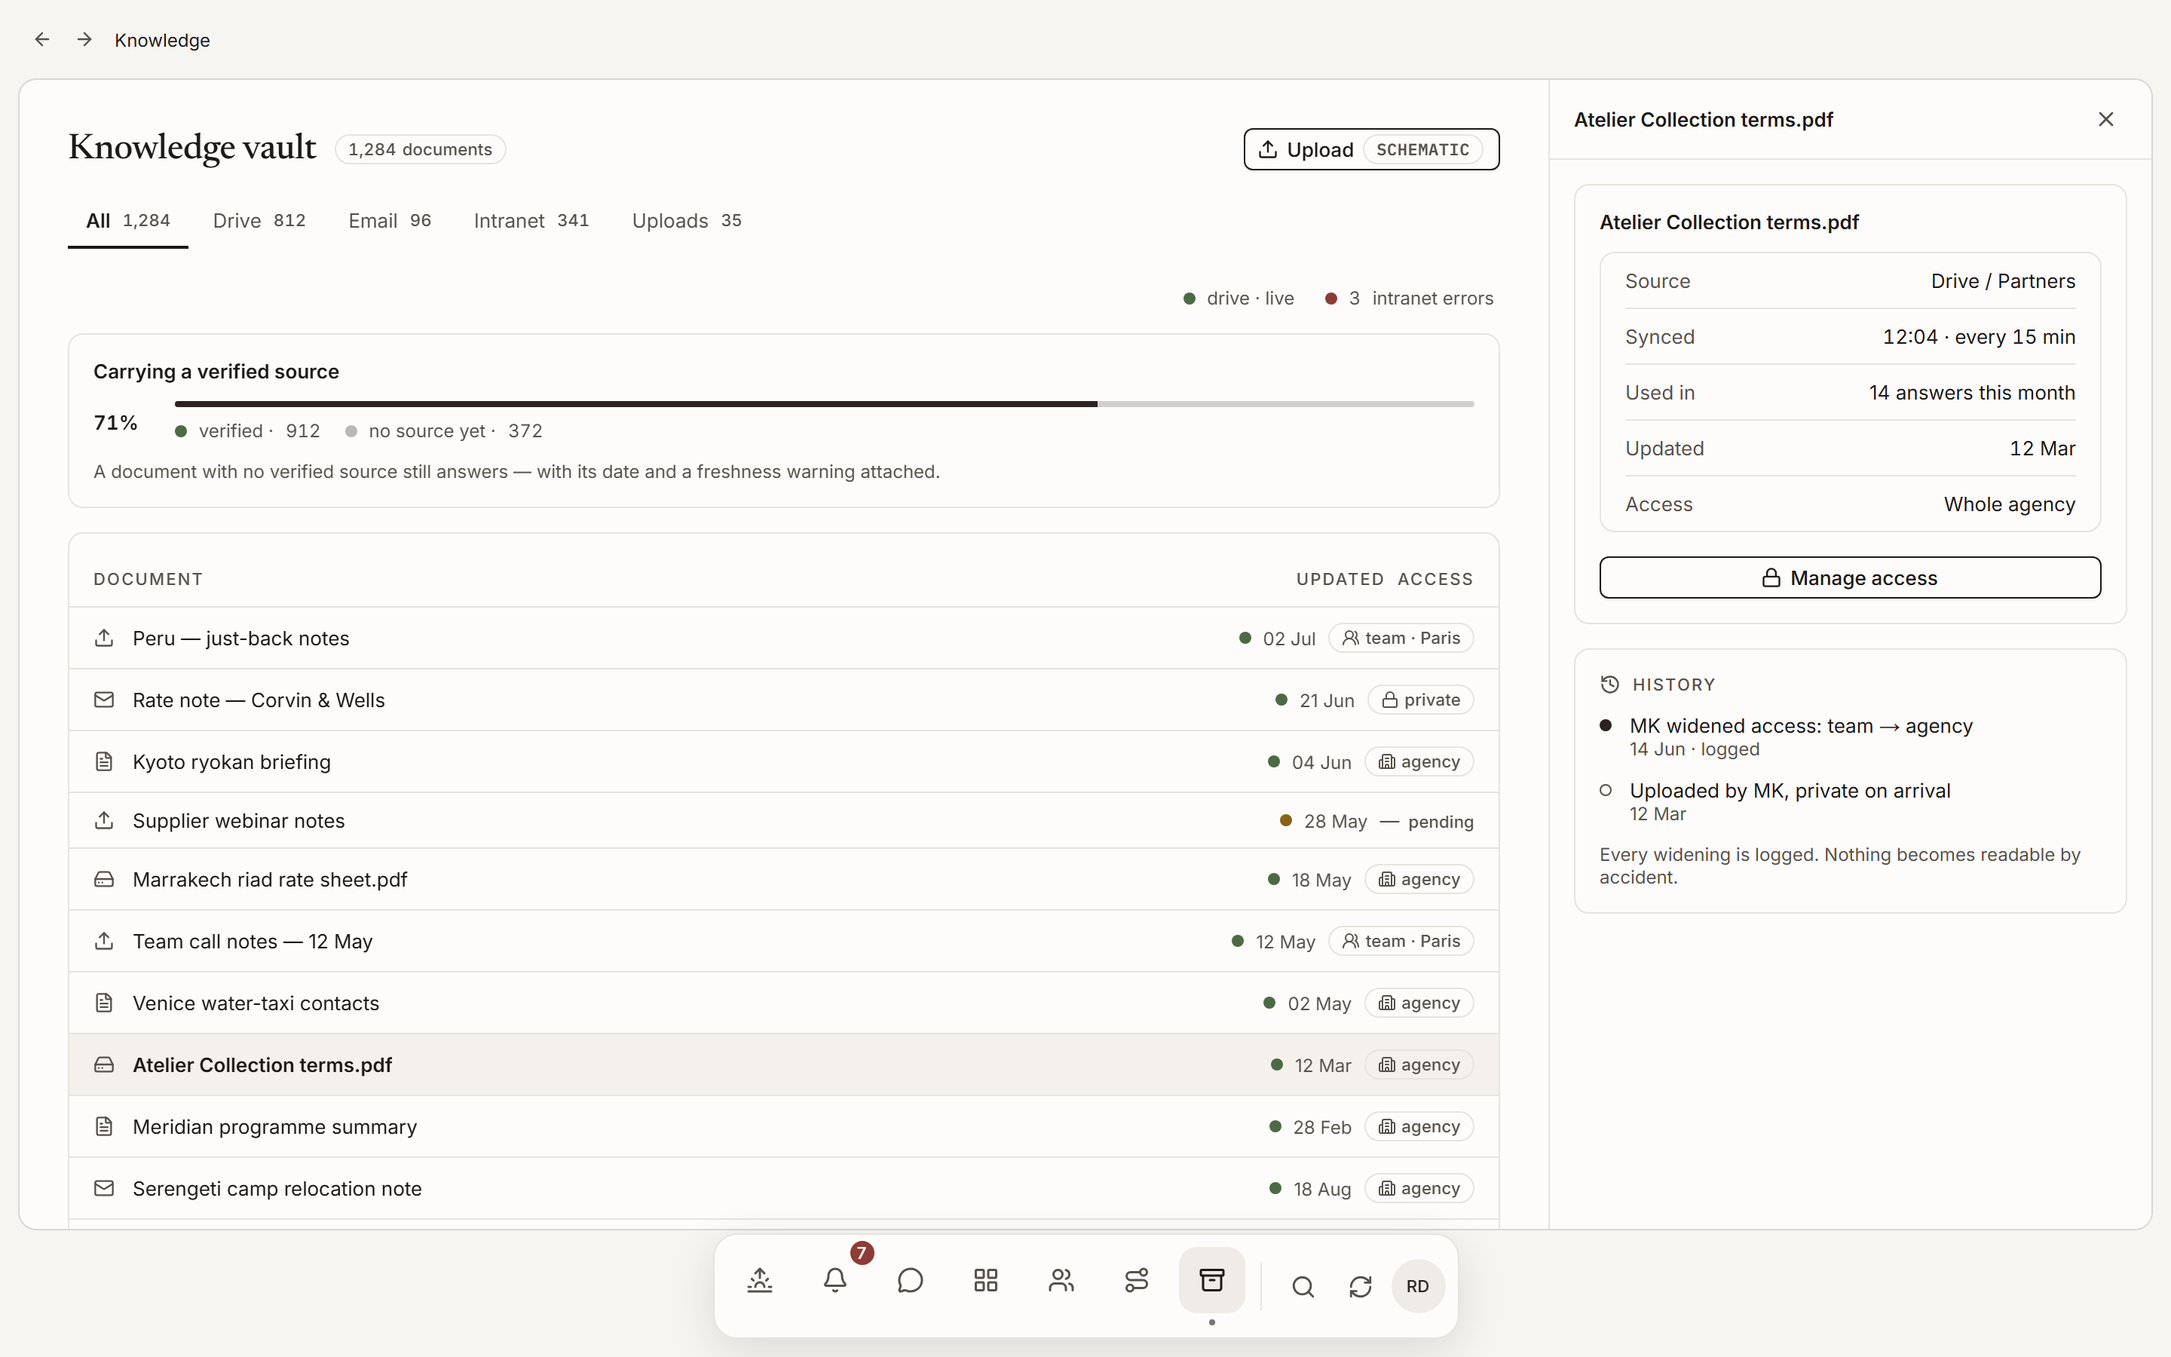
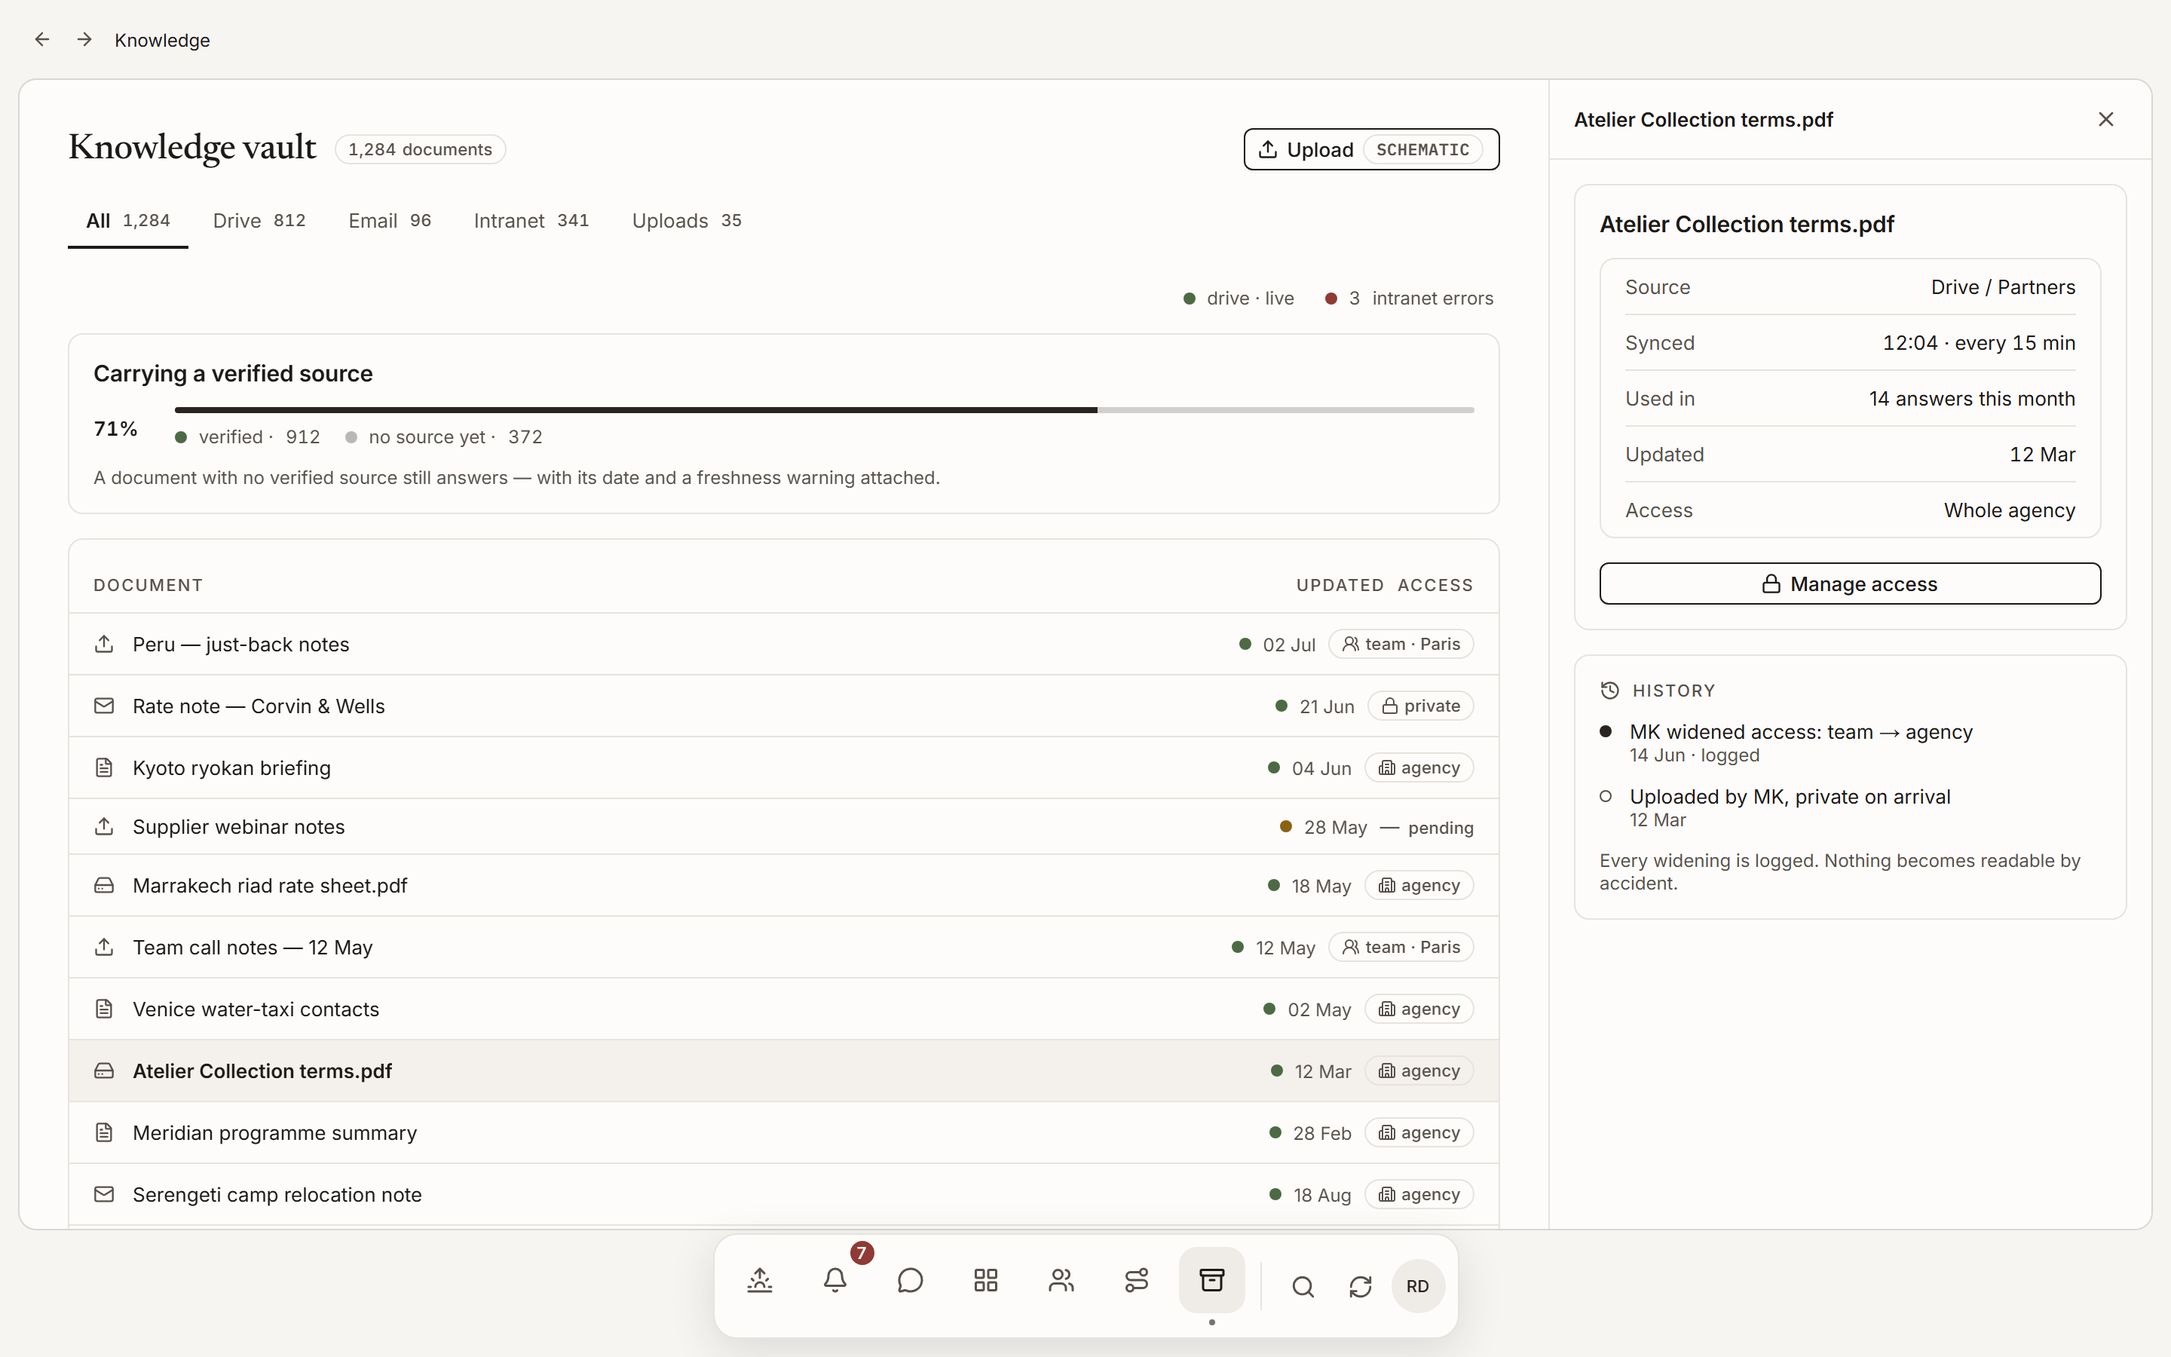
Make the first half argue for retrieval, so the pivot can refuse it
The calls slide was quoting the wrong four things. It led with email notices,
source conflict, expiring commissions and sharing — all real, all downstream of
a problem the room has not been told about yet. It now quotes four advisors who
cannot find what they already know, ending on the agency lead describing the
product back to us: better than AI because it is our own vetted data. That is
the brief we were given, and the next three slides are us building exactly it.

"Retrieval was never the problem" now carries the evidence for why, beside the
claim rather than under it: the amenities text was boilerplate across 3,280
properties, commission was arriving under traveller names against properties
that resolved to nothing, and none of it could be switched on until the agency
knew who would see what. That third one hands straight to the next slide.

The permissioning slide is rebuilt around the engineering argument instead of
the taxonomy change. Pointing a model at the files gave confident wrong answers,
and occasionally correct ones about commissions the reader could not see. So
permission became a property of the record rather than a filter on the output,
measured by a target written so it could fail — sources, freshness, a confidence
label or "I don't know", zero permission leakage. The sharing tiers are that
model surfacing, which keeps the March-to-April iteration as evidence.

Challenge 1 no longer opens on the review form with no explanation of how anyone
[…]

diff --git a/index.html b/index.html
@@ -185,31 +185,32 @@
 </section>
 
 <!-- 7b — what came out of the calls -->
-<section class="slide is-mid" data-note="Do not read all four. Read the email one and the room-name one aloud, point at the other two, then say: every one of these is dated and attributed, and the last one is the one I want to follow all the way through.">
+<section class="slide is-mid" data-note="Read the first two aloud. Point at the third. Then read the agency lead&rsquo;s line slowly, because it is the brief we were given and it is the one we followed. Every quote here is about not being able to find something. That is the whole set-up for the next three slides.">
   <span class="eyebrow">What the calls produced</span>
-  <h2 style="margin-top:20px;max-width:34ch">Four things advisors told us, and what we built because of them.</h2>
+  <h2 style="margin-top:20px;max-width:36ch">Four things advisors told us, all pointing the same way.</h2>
   <div class="said-grid">
     <div>
-      <q>Sometimes we read our email, sometimes we don&rsquo;t. And it&rsquo;s always the one time we might not.</q>
+      <q>Do we have a place on the Internet where all these meet-and-greet services are listed?</q>
+      <div class="when">Advisor &middot; 21 May &middot; the answer was no</div>
+      <div class="then">There was nowhere to look. Every question like this one ended at somebody&rsquo;s memory.</div>
+    </div>
+    <div>
+      <q>I had a Hawaii list that I took off the Internet&hellip; found out that this was pre-Covid. So a lot of those restaurants were closed already.</q>
       <div class="when">Advisor &middot; 30 April</div>
-      <div class="then">So we stopped sending notices to the inbox and put them on the record itself, where the work already happens.</div>
+      <div class="then">When there was somewhere to look, it was the open web, and it answered confidently with things that had closed years ago.</div>
     </div>
     <div>
-      <q>Literally every single time I do a booking I am looking at the website at the same time&hellip; sometimes I even look at the square footage.</q>
-      <div class="when">Advisor &middot; 21 May</div>
-      <div class="then">So the record shows every source it has and refuses to pick between them. A person chooses, and their reason is kept.</div>
-    </div>
-    <div>
-      <q>Twenty per cent commission until June&hellip; I&rsquo;ve never seen them do that before&hellip; obsolete come July 1st.</q>
-      <div class="when">Advisor &middot; 23 April</div>
-      <div class="then">So a commission carries the day it stops being true, and the product says so before the day arrives rather than after.</div>
+      <q>I don&rsquo;t want to rely on information it gives me because it&rsquo;s just information from the Internet.</q>
+      <div class="when">Advisor &middot; 16 April</div>
+      <div class="then">So a general assistant was never going to be used here, however good the writing was.</div>
     </div>
     <div class="is-lead">
-      <q>We want sharing appropriate data, but we want to make sure we&rsquo;re not sharing sensitive data&hellip; as far as client data.</q>
-      <div class="when">The agency lead &middot; 30 April</div>
-      <div class="then"><b>This one contradicted a decision we had already made and shipped, so it gets the slide after next.</b></div>
+      <q>It&rsquo;s better than AI because it&rsquo;s all of our proprietary data that&rsquo;s been vetted.</q>
+      <div class="when">The agency lead &middot; 23 April</div>
+      <div class="then"><b>The agency describing the product back to us. Search our own material instead of the web, and the trust problem goes away.</b></div>
     </div>
   </div>
+  <div class="cap calls-foot">Four complaints, one obvious conclusion: <b>they could not find what they already knew.</b> So we built them somewhere to look.</div>
 </section>
 
 <!-- ─── the first build, before the challenges ─── -->
@@ -230,35 +231,42 @@
 </section>
 
 <!-- 13 -->
-<section class="slide is-statement" data-note="The intellectual move of the whole project. Say it slowly.">
-  <span class="eyebrow">What we changed</span>
-  <p class="said">Retrieval was never the problem.</p>
-  <p class="after">The knowledge already existed and was already accurate — it was sitting unread in
-  inboxes and portals. What was missing was structure, a source on every fact, and a permission
-  attached to it. So the data model came before any screen, and chat became one door among several
-  rather than the product.</p>
+<section class="slide is-statement has-ev" data-note="The intellectual move of the whole project. Say the headline slowly, then stop. The three on the right are why: the text was boilerplate, the money did not resolve to anything, and none of it could be switched on until the agency knew who could see what. That third one is the next slide.">
+  <div class="col-a">
+    <span class="eyebrow">What we changed</span>
+    <p class="said">Retrieval was never the problem.</p>
+    <p class="after">The agency&rsquo;s own material was not a trustworthy thing to search either. Once we looked at what was in it, the work stopped being retrieval and started being structure, attribution and permission.</p>
+    <p class="after"><strong>So the data model came before any screen, and chat became one door among several rather than the product.</strong></p>
+  </div>
+  <div class="col-b">
+    <ul class="ev">
+      <li><b>93% of the amenities text</b> across 3,280 properties was template boilerplate &mdash; <em>&ldquo;View Hotel &mdash; experience refined luxury&hellip;&rdquo;</em> &mdash; not editorial anyone had written. <span>Database review &middot; March 2026</span></li>
+      <li><b>Commission was arriving under a traveller&rsquo;s name</b> instead of the agency&rsquo;s, against properties that did not resolve to anything: &ldquo;Currency Cloud&rdquo;, &ldquo;Pipery Hotel&rdquo;. <span>Advisor &middot; 23 April</span></li>
+      <li><b>And none of it could be switched on</b> until the agency knew who would see what: &ldquo;we want to make sure we&rsquo;re not sharing sensitive data&hellip; as far as client data.&rdquo; <span>The agency lead &middot; 30 April</span></li>
+    </ul>
+  </div>
 </section>
 
 
 <!-- 7c — one signal traced from call to decision to feature -->
-<section class="slide is-split is-wide" data-note="This is the answer to how a call becomes a feature. The point is not that we changed our mind — it is that we had written down, a month earlier, what would make us change it. Land on that. Then point at the sheet: three tiers, and money gated separately from all three.">
+<section class="slide is-split is-wide" data-note="This is the engineering argument, and it is the one that separates this from a RAG demo. Lead with the failure: documents in, answers out, wrong too often to be used. Then the move — permission is a property of the record, so an answer cannot leak what the model will not join. Then the metric we wrote so it could fail. Only then the sharing tiers, as that model showing up on a screen.">
   <div class="art shot"><img src="assets/screens/21-sharing-sheet.png" alt="The sharing panel: private to you, Collaborator Full, Collaborator Basic, with spend held behind the commission entitlement at every tier."></div>
   <div class="words">
-    <span class="eyebrow">One of them, followed all the way through</span>
-    <h3>We wrote the sharing rule in March, along with the thing that would make us tear it up. A month later that thing happened.</h3>
+    <span class="eyebrow">Why the data model came before the screens</span>
+    <h3>Permission had to live in the data model. A filter on the answer was never going to hold.</h3>
     <ul class="chain">
-      <li><em>31 March &middot; decided</em>
-        <b>Sharing a traveller is all or nothing.</b>
-        <span>An advisor hands over the whole profile or none of it. We wrote the revisit condition into the decision itself: reopen this if advisors refuse to share because of sensitive notes.</span></li>
-      <li><em>30 April &middot; heard</em>
-        <b>The agency lead argued both sides in one call.</b>
-        <span>He wanted notes shared &mdash; &ldquo;you don&rsquo;t necessarily have to be on this call to retrieve that information&rdquo; &mdash; and in the same conversation drew the line at client data. He also kept the finance dashboard out of it entirely.</span></li>
-      <li><em>The same week &middot; reopened</em>
-        <b>That was our condition, met almost word for word.</b>
-        <span>Nobody had to argue for reopening it. We had already agreed in March what would earn a second look, so the only question left was what replaced it.</span></li>
-      <li><em>Shipped &middot; and still standing</em>
-        <b>Three tiers, and money is not one of them.</b>
-        <span>Full lets a colleague edit and run Acuity but never re-share. Basic is a name and a contact, for an introduction. Spend sits behind a separate permission at every tier, because who you trust with a client is a different question from who you trust with the numbers.</span></li>
+      <li><em>The failure</em>
+        <b>Documents in, answers out, wrong too often to use.</b>
+        <span>Pointing a model at the agency&rsquo;s files gave confident answers that were wrong often enough that an advisor would stop trusting the whole product inside a week. And when one was right, it was sometimes right about a commission the reader was not entitled to see.</span></li>
+      <li><em>The move</em>
+        <b>We made permission a property of the record, not a filter on the output.</b>
+        <span>Everything lands private by default. Every reverse lookup is gated by the record&rsquo;s own sharing rules, and commission sits behind its own entitlement on top of that. An answer cannot leak what the model will not join in the first place.</span></li>
+      <li><em>The measure</em>
+        <b>We wrote the target so it could fail.</b>
+        <span>Time to Trusted Answer: an answer only counted if it arrived with its sources, its freshness, a confidence label or a plain &ldquo;I don&rsquo;t know&rdquo; &mdash; and zero permission leakage. Any override is auditable.</span></li>
+      <li><em>On the left</em>
+        <b>The sharing tiers are that model showing up on a screen.</b>
+        <span>In March we made sharing all or nothing, and wrote down what would reopen it. In April the agency lead met that condition almost word for word, so it became Full and Basic. Money stayed behind its own permission at every tier.</span></li>
     </ul>
   </div>
 </section>
@@ -345,9 +353,27 @@
 </section>
 
 <!-- ─── loop 2 ─── -->
+<!-- where the review work comes from, before the review screen itself -->
+<section class="slide is-full" data-note="Do not skip to the form. Say the path out loud: an advisor forwards a rate sheet into the vault, or an administrator connects a portal, and the extractor proposes records off the back of it. Point at the held row — Villa ???? — that is the extractor declining to guess. Then say the rule: nothing reaches an answer until a named person confirms it. The form on the next slide is the bill for that rule.">
+  <div class="head"><span class="step made">Challenge 1 &middot; how you get here</span><h3>A document lands, or a system syncs. Either way a person has to confirm what came out.</h3></div>
+  <div class="art">
+    <div class="duo">
+      <figure class="is-doc">
+        <div class="box"><img src="assets/screens/18-knowledge.png" alt="The knowledge vault: documents an advisor has forwarded in, each with its source and date."></div>
+        <figcaption>1 a rate sheet is forwarded into the vault</figcaption>
+      </figure>
+      <figure class="is-doc">
+        <div class="box"><img src="assets/screens/22-review-queue.png" alt="Confirm new records: three candidates with their source URIs, one a possible duplicate, one held at low confidence."></div>
+        <figcaption>2 candidates queue up, with the file they came from</figcaption>
+      </figure>
+    </div>
+  </div>
+  <div class="cap">The other way in is a connection an administrator sets up, and it lands in the same queue. Each candidate keeps the file it came from &mdash; <b>gdrive://dmc-kyoto-2026.xlsx</b>, <b>portal://meridian</b> &mdash; and one row is held rather than proposed, because the source line was unreadable. <b>Nothing here reaches an answer, a card or a search until a named person confirms it.</b> That rule is not negotiable, so the only question was what confirming one should cost.</div>
+</section>
+
 <!-- 14 -->
-<section class="slide is-full" data-note="They asked for this. We built exactly it. Do not mock the request — it was reasonable.">
-  <div class="head"><span class="step made">Challenge 1 · first attempt</span><h3>They asked to check every field by hand.</h3></div>
+<section class="slide is-full" data-note="They asked for this and we built exactly it. Do not mock the request — when your business is the terms being right, checking them is not paranoia. Read the two numbers off the slide and let the silence do the work.">
+  <div class="head"><span class="step made">Challenge 1 · first attempt</span><h3>We let them check every field by hand. This is what that cost.</h3></div>
   <div class="art shot"><img src="assets/plates/form.png" alt="The first review interface: field 11 of 87, record 3 of 214."></div>
   <div class="cap"><b>Field 11 of 87. Record 3 of 214.</b> A completely reasonable request from people
   whose business depends on the terms being right.</div>

diff --git a/deck.css b/deck.css
@@ -480,3 +480,35 @@ body.settled #help { opacity: 0; }
 
 /* a text-only slide, held on the vertical centre rather than hung from the top */
 .is-mid { justify-content: center; }
+
+/* the line that sends the calls slide into the first build */
+.calls-foot { margin-top: 34px; font-size: 19px; line-height: 1.45; color: var(--ink-3); }
+.calls-foot b { color: var(--ink-2); font-weight: 600; }
+
+/* ── what we found when we looked at the agency’s own data ──────────── */
+
+.ev { margin-top: 30px; list-style: none; display: grid; gap: 14px; max-width: 62ch; }
+.ev li {
+  padding-left: 18px; position: relative;
+  font-size: 18px; line-height: 1.45; color: var(--ink-2);
+}
+.ev li::before {
+  content: ""; position: absolute; left: 0; top: 11px;
+  width: 5px; height: 5px; border-radius: 50%; background: var(--ink-4);
+}
+.ev li b { color: var(--ink); font-weight: 500; }
+.ev li em { font-style: italic; color: var(--ink-3); }
+.ev li span {
+  display: block; margin-top: 4px;
+  font-family: var(--mono); font-size: 10.5px; letter-spacing: 0.09em;
+  text-transform: uppercase; color: var(--ink-4);
+}
+.is-statement .ev + .after { margin-top: 28px; }
+
+/* the pivot slide carries its evidence beside the claim, not under it */
+.is-statement.has-ev { flex-direction: row; gap: 70px; align-items: center; }
+.is-statement.has-ev .col-a { flex: 1 1 50%; min-width: 0; }
+.is-statement.has-ev .col-b { flex: 1 1 50%; min-width: 0; }
+.is-statement.has-ev .said { max-width: 14ch; }
+.is-statement.has-ev .after { max-width: 40ch; }
+.is-statement.has-ev .ev { margin-top: 0; max-width: none; gap: 24px; }
